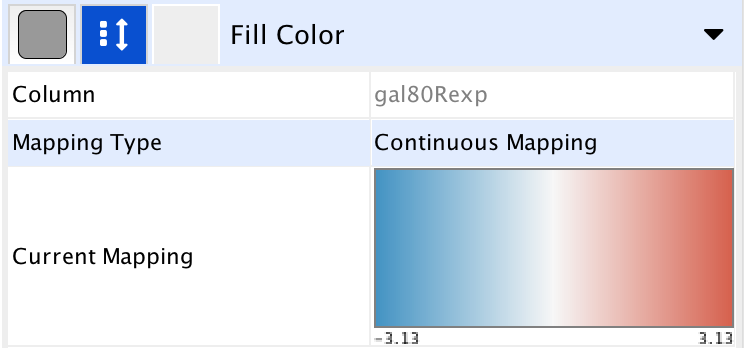
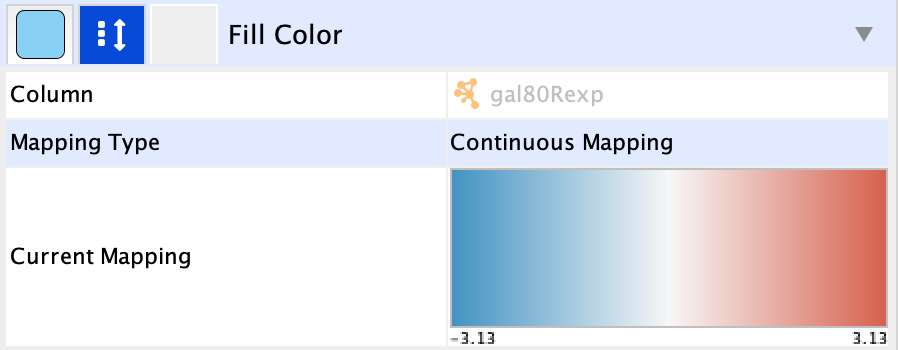
updated text and layout

diff --git a/protocols/basic-data-visualization/index.html b/protocols/basic-data-visualization/index.html
@@ -44,7 +44,7 @@
 
 <section>
 	<h1>Loading Network</h1>
-    			<ul>
+        <ul>
 				<div style="width:40%;float:right; margin-left: 10px">
 					<img class="plain" src="BasicDataVizDemoLoaded.png">
 				</div>
@@ -119,7 +119,7 @@ Add speaker notes here...
 	<h1>Set Default Node Color</h1>
 	<p>Some nodes in the network don't have any data, and for those nodes, the default color applies. In our case, the default color is blue, which falls within the spectrum of our blue-red gradient. This is not ideal for data visualization, so a useful trick is to choose a color outside the gradient spectrum to distinguish nodes with no defined expression value.</p>
     <ul>
-    <li>Still in the <highlight>Style</highlight> tab, under <highlight>Fill Color</highlight>, click the <highlight>Def.</highlight> (leftmost) square next to <highlight>Fill Color</highlight> and choose a dark gray color.</li>
+    <li>Still in the <highlight>Style</highlight> tab, under <highlight>Fill Color</highlight>, click the <highlight>Def.</highlight> (leftmost) square next to <highlight>Fill Color</highlight> and choose a light gray color.</li>
     </ul>
          <img src="NodeFillDefaultMapping.png" style="width:40%">
          <aside class="notes" data-markdown>
@@ -134,13 +134,12 @@ Add speaker notes here...
             <li>Click the <highlight>-- select value --</highlight> cell in the <highlight>Column</highlight> section, and select <b>gal80Rsig</b> in the drop-down.</li>
             <li>Click the <highlight>-- select value--</highlight> cell in the <highlight>Mapping Type</highlight> section, and select <highlight>Continuous Mapping</highlight> in the drop-down.</li>
             <li>Double-click on the gradient, which defines the node border width over the range of p values.</li>
-        </ul><br /><br />
-        <img src="NodeBorderGradient.png" style="width:30%"><br /><br />
-        <ul>
             <li>First, we will define the min/max of the range of p values we are interested in, that is anything under 0.05. Click on <highlight>Set Min and Max...</highlight> and set the max to <b>0.05</b>. Click <highlight>OK</highlight> to save.</li>
-            <li>Click on the handle for the max value (black triangle on the right-most end of the gradient) and set the value to <b>10</b> in the <highlight>Node Border Width</highlight> field. </li>
+            <li>Click on the handle for the max value (black triangle on the right-most end of the gradient) and set the value to <b>10</b> in the <highlight>Node Border Width</highlight> field.</li>
+            <li>Click the <highlight>Def.</highlight> value for <highlight>Node Border Paint</highlight> and select a dark grey color.</li>
         </ul>
-        <br /><br />
+        <img class="plain" src="NodeBorderGradient.png" style="width:40%">
+        <br />
         <p>To learn more about <b>visualizing data</b>, see the <a href="https://cytoscape.github.io/cytoscape-tutorials/protocols/mapping-data/#/" target="_blank">Visualizing Expression Data Tutorial</a>.</p>
     </section>
                 
